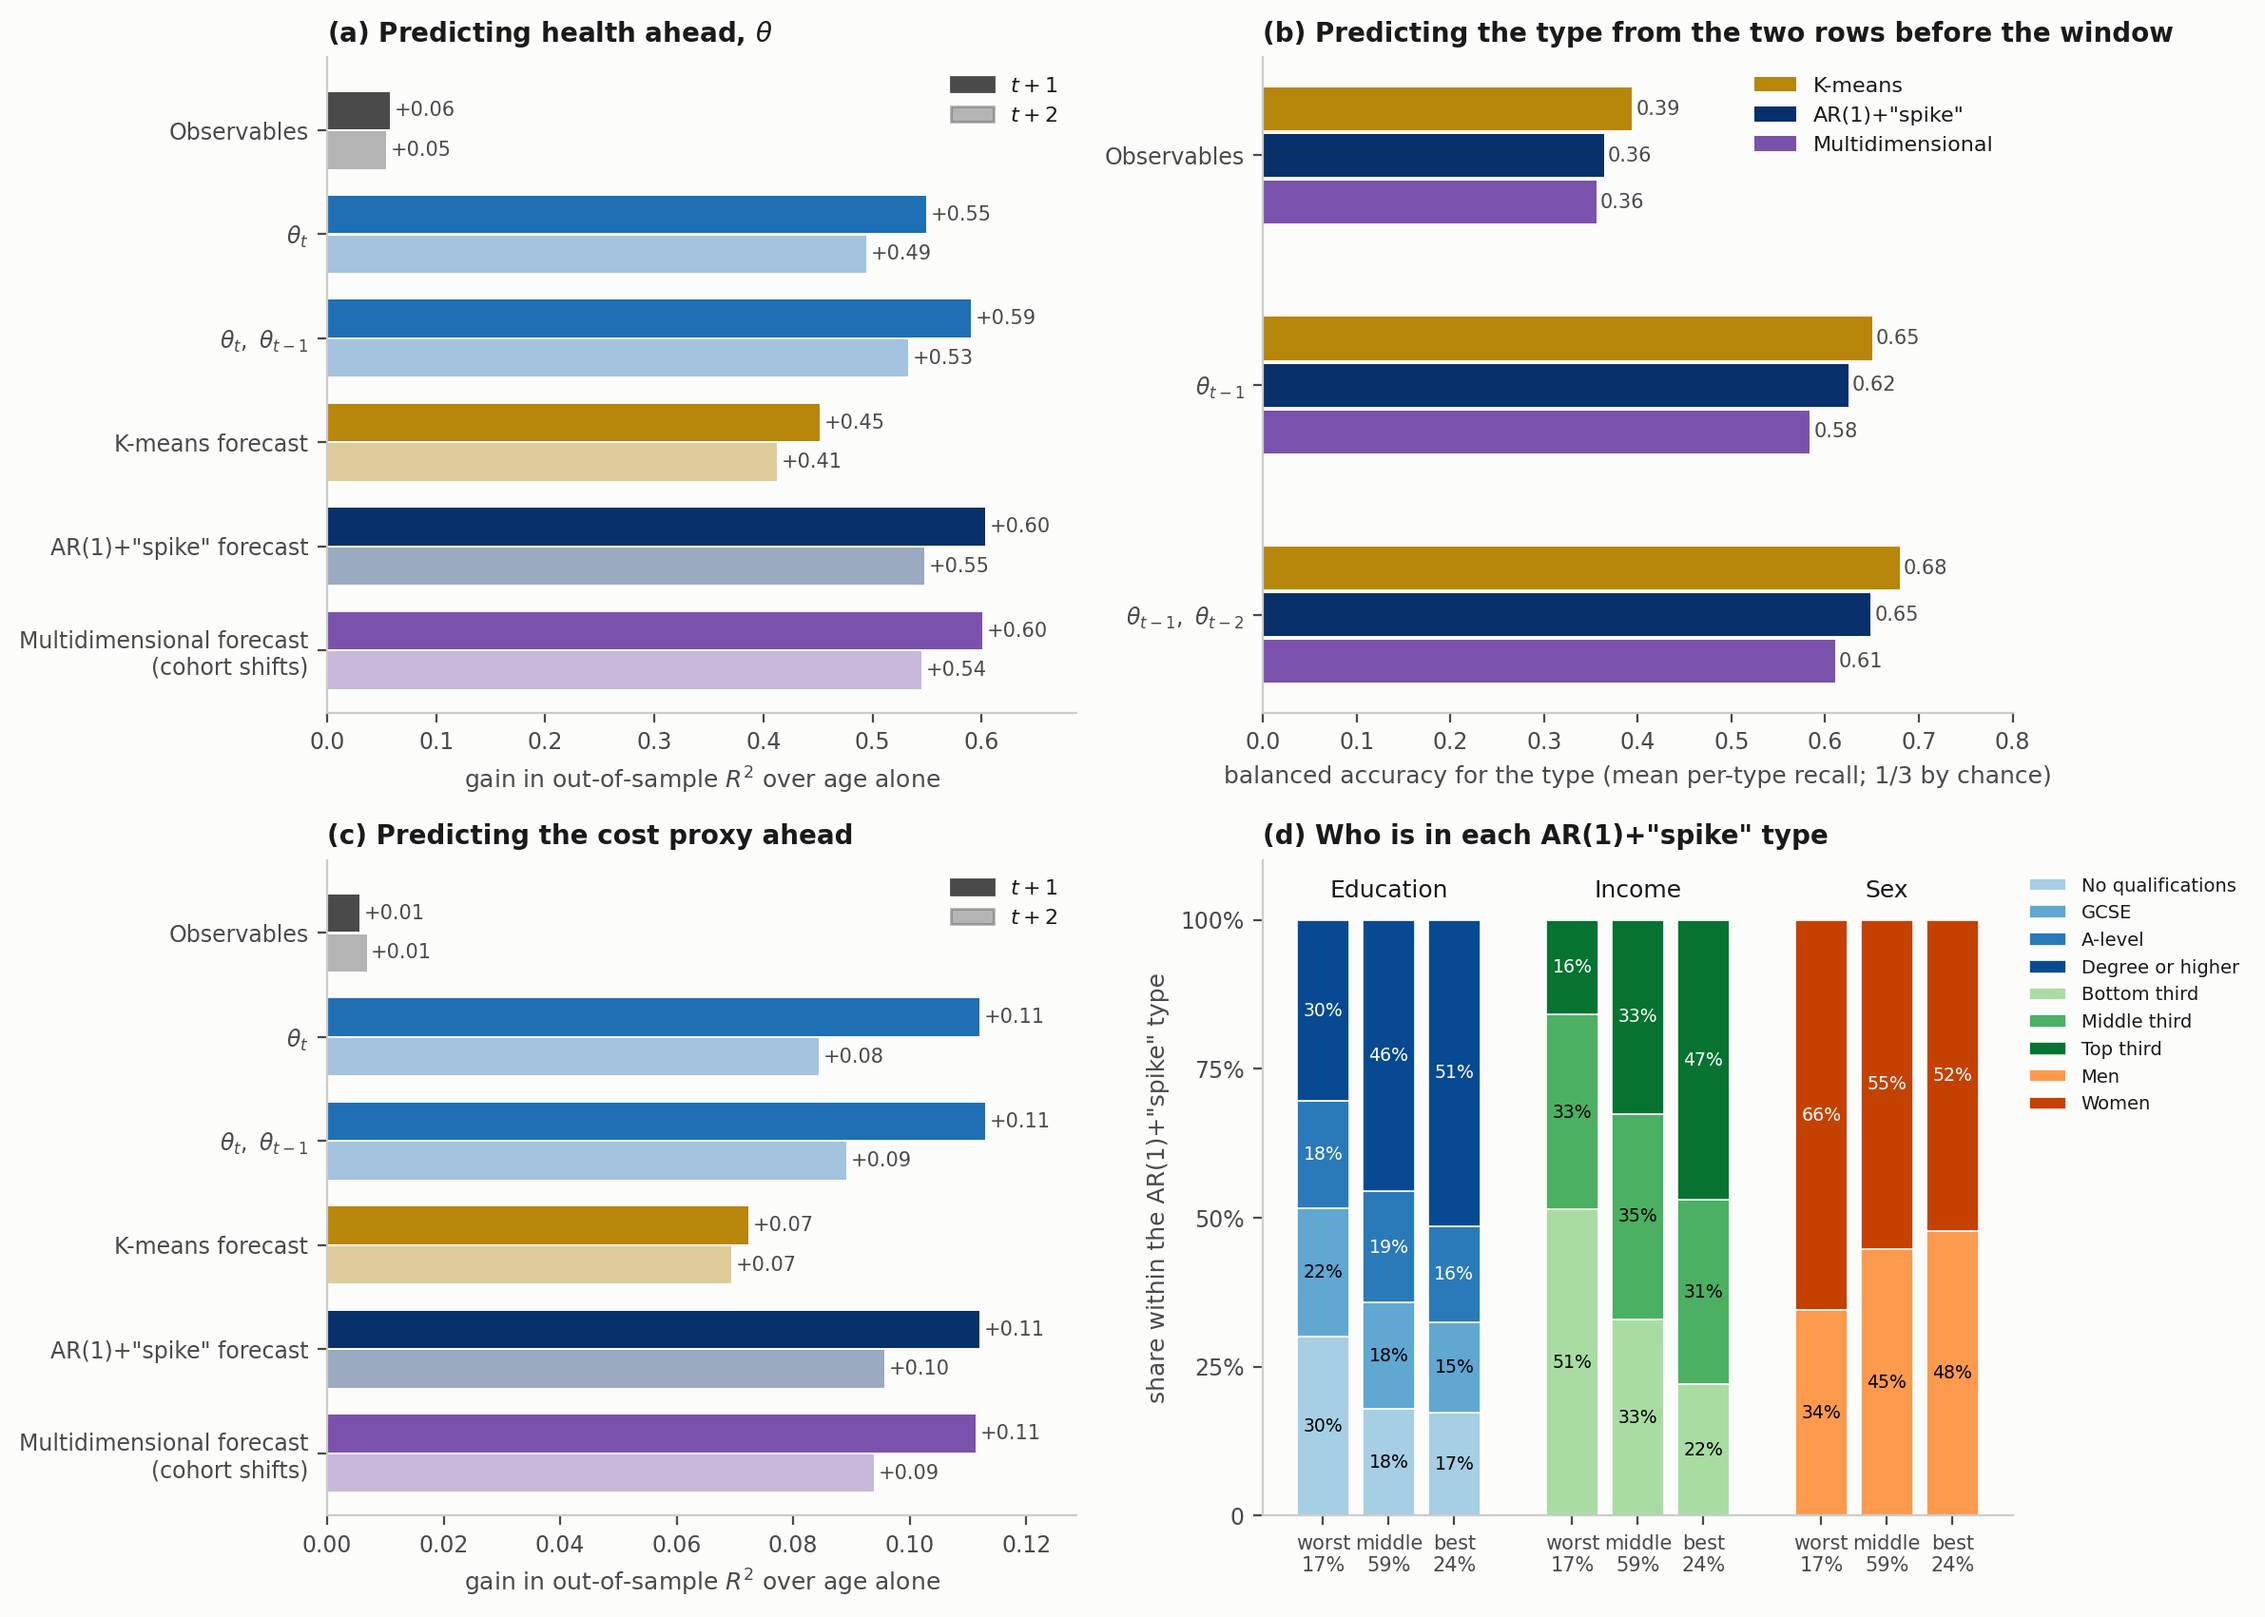
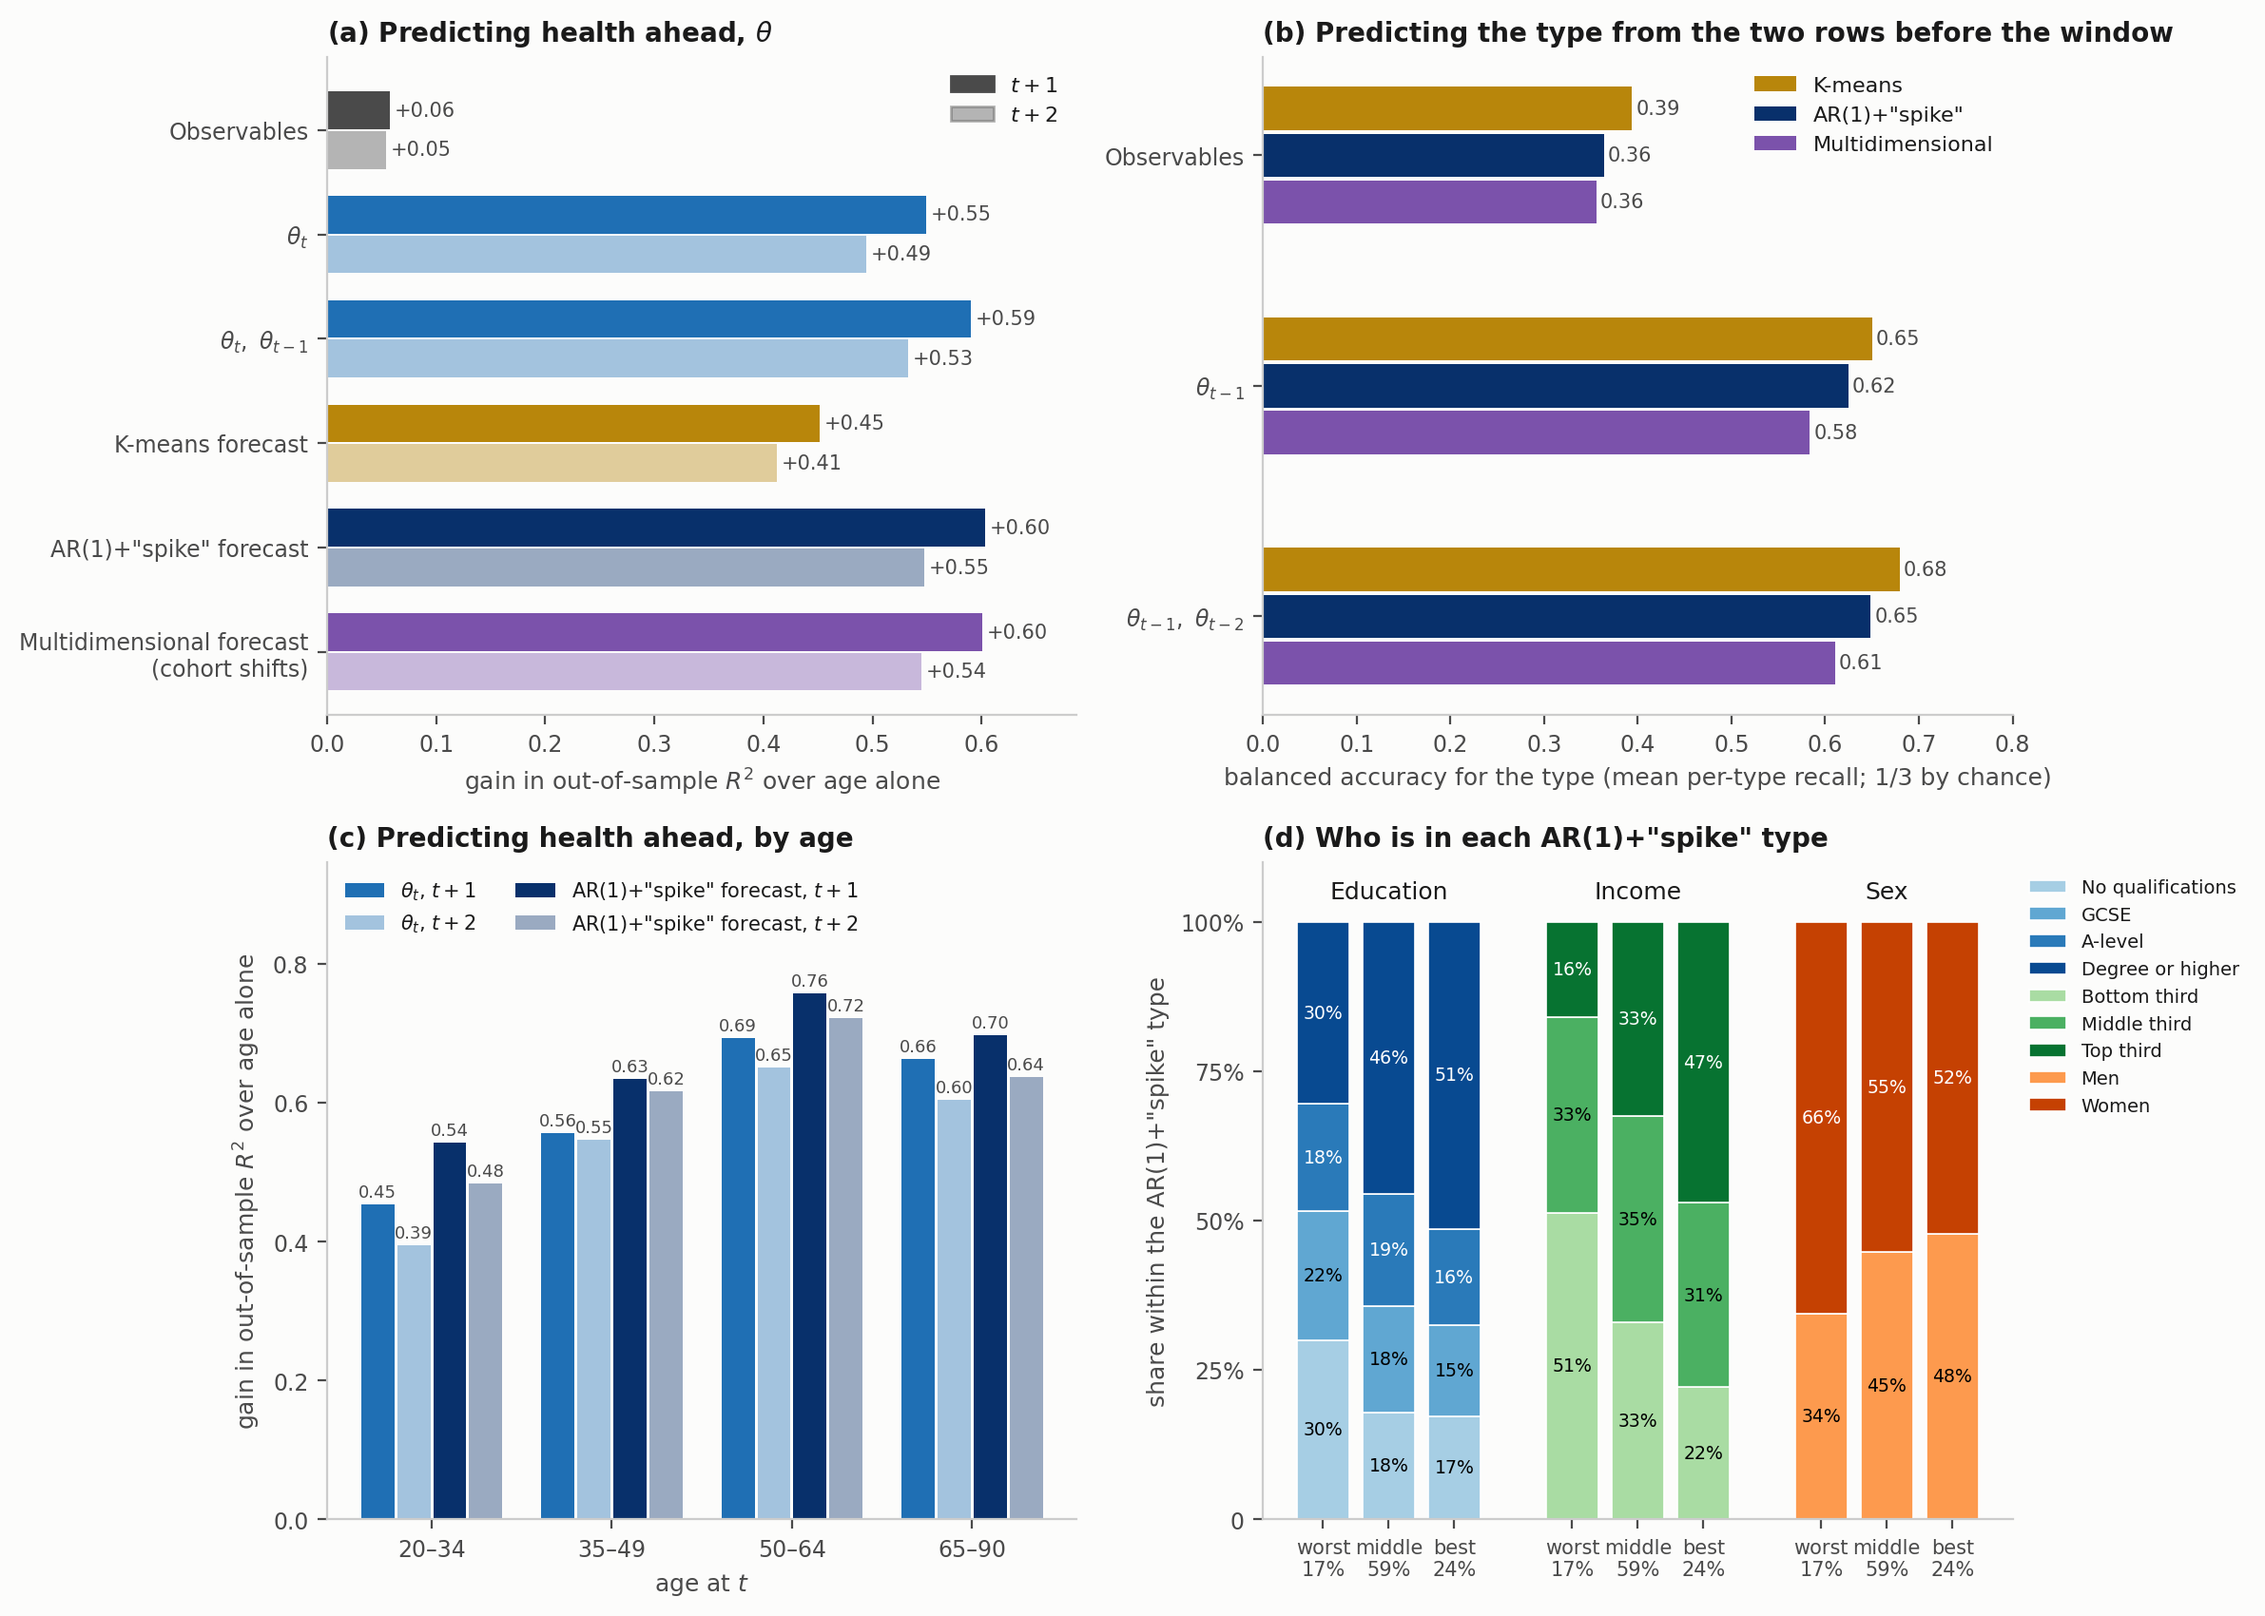
Prediction figure: panel (c) by age; cost panel moved to appendix figure
Claude-Session: https://claude.ai/code/session_01KuSybU76X361Nwk54WX1KB

diff --git a/descriptives/33_paper_prediction.py b/descriptives/33_paper_prediction.py
@@ -48,7 +48,9 @@ samples. A multidimensional fit that has not finished leaves its rows blank.
 Outputs: paper/figures/fig_prediction.png, paper/tables/tab_prediction.tex (theta),
          paper/figures/fig_prediction_h.png, paper/tables/tab_prediction_h.tex (h, appendix),
          artifacts/descriptives/paper_prediction.csv,
-         artifacts/descriptives/paper_prediction_death_heldout.csv
+         artifacts/descriptives/paper_prediction_death_heldout.csv,
+         artifacts/descriptives/paper_prediction_by_age.csv (R-squared and its gain over age
+         alone within age bands at t, for a few sets, on the people with a lag observed)
 """
 
 from __future__ import annotations
@@ -334,6 +336,30 @@ def score_sets(s: pd.DataFrame, oc: str, kind: str, SETS: dict, extra: dict | No
     return out
 
 
+AGE_BANDS = [(20, 34), (35, 49), (50, 64), (65, 90)]
+BY_AGE_SETS = ["age", "+ observables", "+ {v}(t)", "+ {v}(t), {v}(t-1)", '+ AR(1)+"spike" forecast']
+
+
+def scores_by_age(s: pd.DataFrame, oc: str, SETS: dict, names: list[str]) -> list[dict]:
+    """R-squared within age bands at t, on the test 30%, of each named set fitted on the
+    whole 70% (the same fits as score_sets), and its gain over age alone in the band."""
+    test = ((pd.util.hash_pandas_object(s["pidp"], index=False) % 10) >= 7).to_numpy()
+    y = s[oc].to_numpy(float); out = []
+    preds = {}
+    for name in names:
+        cols = SETS[name]
+        X = np.column_stack([np.ones(len(s)), s["a"], s["a"] ** 2] + [s[c].to_numpy(float) for c in cols])
+        b = np.linalg.lstsq(X[~test], y[~test], rcond=None)[0]; preds[name] = X @ b
+    for lo, hi in AGE_BANDS:
+        sel = test & s["age"].between(lo, hi).to_numpy()
+        yb = y[sel]; ss = ((yb - yb.mean()) ** 2).sum()
+        base = 1 - ((yb - preds["age"][sel]) ** 2).sum() / ss
+        for name in names:
+            r2 = 1 - ((yb - preds[name][sel]) ** 2).sum() / ss
+            out.append({"predictors": name, "band": f"{lo}-{hi}", "n_test": int(sel.sum()), "score": float(r2), "gain": float(r2 - base)})
+    return out
+
+
 def run_variant(v: str, md_people: np.ndarray) -> tuple[pd.DataFrame, dict]:
     long = pd.read_csv(CONTRACT / "long.csv"); n = long.groupby("pidp")["age"].transform("size")
     sub = long[n >= MIN_OBS].sort_values(["pidp", "age"]).reset_index(drop=True)
@@ -389,7 +415,7 @@ def run_variant(v: str, md_people: np.ndarray) -> tuple[pd.DataFrame, dict]:
     OUT = [("y_next", f"health, ${VL[v]}$", "r2", (1, 2)), ("cost_next", "cost proxy (£)", "r2", (1, 2)),
            ("emp_next", f"employed, ages 20-{EMP_MAX_AGE}", "auc", (1, 2))]
     base_cols = ["a", v] + obs + ["base_c1", "ssm_c1", "ssm_fc"]
-    rows, info = [], {}
+    rows, info, by_age = [], {}, []
     for oc, olab, kind, horizons in OUT:
         for k in horizons:
             s = frames[k].dropna(subset=[oc] + base_cols)
@@ -399,6 +425,9 @@ def run_variant(v: str, md_people: np.ndarray) -> tuple[pd.DataFrame, dict]:
             info[(oc, k)] = {"n": len(s), "rate": float(y.mean()) if kind == "auc" else np.nan}
             for r in score_sets(s, oc, kind, SETS, extra):
                 rows.append({"variant": v, "outcome": oc, "outcome_label": olab, "horizon": k, "metric": kind, **r})
+            if kind == "r2":
+                names = [n.format(v=v) for n in BY_AGE_SETS]
+                by_age += [{"variant": v, "outcome": oc, "horizon": k, **r} for r in scores_by_age(s.dropna(subset=["y_lag"]), oc, SETS, names)]
             print(f"{v} {oc} t+{k}: {len(s):,} people" + (f", event rate {y.mean():.3%}" if kind == "auc" else ""))
     # held-out death, for 41_paper_mortality_prediction.py
     s = frames[3].dropna(subset=["died_next"] + base_cols)
@@ -406,20 +435,33 @@ def run_variant(v: str, md_people: np.ndarray) -> tuple[pd.DataFrame, dict]:
     print(f"{v} died_next after the last interview: {len(s):,} people, event rate {s['died_next'].mean():.3%}")
     t = pd.DataFrame(rows)
     t["gain"] = t["score"] - t.groupby(["outcome", "horizon"])["score"].transform("first")
-    return t, {"sets": list(SETS), "out": OUT, "have_md": have_md, "info": info, "death": death}
+    return t, {"sets": list(SETS), "out": OUT, "have_md": have_md, "info": info, "death": death, "by_age": pd.DataFrame(by_age)}
 
 
 def main() -> int:
     apply_style()
     md_long = pd.read_csv(MD_CONTRACT / "long.csv", usecols=["pidp", "age"])
     md_people = md_long.groupby("pidp").size().pipe(lambda s: s[s >= MIN_OBS]).index.to_numpy()
+    # --stage v runs one variant and caches it; --assemble writes the outputs from the cached
+    # variants (for machines where one run of both is too long); neither flag runs both in turn
+    import pickle
+    cache = DESC / ".cache_33"
+    if "--stage" in sys.argv:
+        v = sys.argv[sys.argv.index("--stage") + 1]
+        cache.mkdir(exist_ok=True)
+        pickle.dump(run_variant(v, md_people), open(cache / f"{v}.pkl", "wb"))
+        print(f"staged {v}"); return 0
     tabs, metas = {}, {}
     for v in VARIANTS:
-        tabs[v], metas[v] = run_variant(v, md_people)
+        if "--assemble" in sys.argv:
+            tabs[v], metas[v] = pickle.load(open(cache / f"{v}.pkl", "rb"))
+        else:
+            tabs[v], metas[v] = run_variant(v, md_people)
     t = pd.concat(tabs.values()); t.to_csv(DESC / "paper_prediction.csv", index=False)
     death = pd.concat([metas[v]["death"] for v in VARIANTS])
     death["gain"] = death["score"] - death.groupby("variant")["score"].transform("first")
     death.to_csv(DESC / "paper_prediction_death_heldout.csv", index=False)
+    pd.concat([metas[v]["by_age"] for v in VARIANTS]).to_csv(DESC / "paper_prediction_by_age.csv", index=False)
     OUT = metas["h"]["out"]
     colkeys = [(oc, k) for oc, _, _, hz in OUT for k in hz]
     # the paper's figure and table are theta; the h versions go to the appendix

diff --git a/descriptives/56_paper_prediction_summary.py b/descriptives/56_paper_prediction_summary.py
@@ -1,11 +1,14 @@
 """Main-text summary of the two prediction exercises, 2 x 2.
 
 Left column, predicting ahead (from 33_paper_prediction.py, paper_prediction.csv, on theta):
-the gain in out-of-sample R-squared over age alone at t+1 (full bar) and t+2 (light bar) for
-(a) the measure and (c) the cost proxy, from the observables (education, income rank, sex,
+(a) the gain in out-of-sample R-squared over age alone at t+1 (full bar) and t+2 (light bar)
+for the measure, from the observables (education, income rank, sex,
 region, ethnic group), theta(t), theta(t) and its lag, and the forecasts of partial K-means,
 the AR(1) plus "spike" mixture and the multidimensional fit with birth-decade shifts, each on
 top of a quadratic in age. Every fit behind them held out each person's last two rows.
+(c) The same gain within age bands at t (paper_prediction_by_age.csv), for theta(t) and the
+AR(1) plus "spike" forecast, on the people with a lag observed. The cost-proxy version of
+(a) is a separate appendix figure, fig_prediction_cost.png.
 
 Right column, predicting the type (from 43_paper_type_from_initial.py,
 paper_type_from_initial_first2.csv): (b) balanced accuracy (the mean per-type recall; 1/3 by
@@ -20,7 +23,7 @@ The multidimensional typology in (b) is 43's: the fit with birth-decade shifts
 (theta-ssm-mort-cohort-first2ho) once it has finished, the fit without them until then.
 Rerun 43 and then this script with --recompute when it lands.
 
-Outputs: paper/figures/fig_prediction_summary.png,
+Outputs: paper/figures/fig_prediction_summary.png, paper/figures/fig_prediction_cost.png,
          artifacts/descriptives/paper_prediction_summary_types.csv
 """
 
@@ -74,8 +77,7 @@ def main() -> int:
             (r"$\theta_t,\ \theta_{t-1}$", "+ theta(t), theta(t-1)", "#1f6fb4"),
             ("K-means forecast", "+ K-means forecast", KM_COL), ('AR(1)+"spike" forecast', '+ AR(1)+"spike" forecast', SSM_COL),
             ("Multidimensional forecast\n(cohort shifts)", "+ multidim cohort forecast", MD_COL)]
-    for ax, oc, title in ((axes[0, 0], "y_next", r"(a) Predicting health ahead, $\theta$"),
-                          (axes[1, 0], "cost_next", "(c) Predicting the cost proxy ahead")):
+    def ahead(ax, oc, title):
         s = p[p["outcome"] == oc].set_index(["predictors", "horizon"])["gain"]
         y = np.arange(len(LEFT))[::-1].astype(float); h = 0.38
         xmax = max(s.loc[(pr, k)] for _, pr, _ in LEFT for k in (1, 2)) * 1.14
@@ -89,6 +91,27 @@ def main() -> int:
         ax.set_title(title, loc="left", fontsize=10)
         ax.legend(handles=[plt.Rectangle((0, 0), 1, 1, color=INK2), plt.Rectangle((0, 0), 1, 1, color=INK2, alpha=0.4)],
                   labels=["$t+1$", "$t+2$"], fontsize=8, frameon=False, loc="upper right")
+
+    ahead(axes[0, 0], "y_next", r"(a) Predicting health ahead, $\theta$")
+    # ---- (c) predicting ahead by age at t
+    ax = axes[1, 0]
+    ba = pd.read_csv(DESC / "paper_prediction_by_age.csv")
+    ba = ba[(ba["variant"] == "theta") & (ba["outcome"] == "y_next")]
+    bands = list(dict.fromkeys(ba["band"]))
+    SER = [(r"$\theta_t$", "+ theta(t)", "#1f6fb4"), ('AR(1)+"spike" forecast', '+ AR(1)+"spike" forecast', SSM_COL)]
+    bw = 0.2; x = np.arange(len(bands))
+    for j, (lab, pr, c) in enumerate(SER):
+        for k, alpha in ((1, 1.0), (2, 0.4)):
+            g = ba[(ba["predictors"] == pr) & (ba["horizon"] == k)].set_index("band").reindex(bands)["gain"]
+            xs = x + (2 * j + (k - 1) - 1.5) * bw
+            ax.bar(xs, g, width=bw * 0.92, color=c, alpha=alpha, label=f"{lab}, $t+{k}$")
+            for xx, gg in zip(xs, g):
+                ax.text(xx, gg + 0.005, f"{gg:.2f}", ha="center", va="bottom", fontsize=6.5, color=INK2)
+    ax.set_xticks(x, [f"{b.replace('-', '–')}" for b in bands]); ax.set_xlabel("age at $t$", fontsize=9)
+    ax.set_ylabel("gain in out-of-sample $R^2$ over age alone", fontsize=9)
+    ax.legend(fontsize=7.5, frameon=False, loc="upper left", ncol=2)
+    ax.set_ylim(0, ba[ba["predictors"].isin([pr for _, pr, _ in SER])]["gain"].max() * 1.25)
+    ax.set_title(r"(c) Predicting health ahead, by age", loc="left", fontsize=10)
     # ---- (b) predicting the type, balanced accuracy
     ax = axes[0, 1]
     TYP = [("kmeans", "K-means", KM_COL), ("ssm", 'AR(1)+"spike"', SSM_COL), ("md", "Multidimensional", MD_COL)]
@@ -139,7 +162,11 @@ def main() -> int:
     ax.legend(leg, legl, fontsize=7, frameon=False, loc="upper left", bbox_to_anchor=(1.0, 1.0))
     fig.tight_layout()
     fig.savefig(FIG / "fig_prediction_summary.png")
-    print("wrote fig_prediction_summary.png")
+    # the cost-proxy twin of (a), for the appendix
+    figc, axc = plt.subplots(figsize=(6.2, 4.3))
+    ahead(axc, "cost_next", "Predicting the cost proxy ahead")
+    figc.tight_layout(); figc.savefig(FIG / "fig_prediction_cost.png")
+    print("wrote fig_prediction_summary.png, fig_prediction_cost.png")
     print("ssm types", len(t), "shares", shares.round(3).tolist())
     return 0
 
